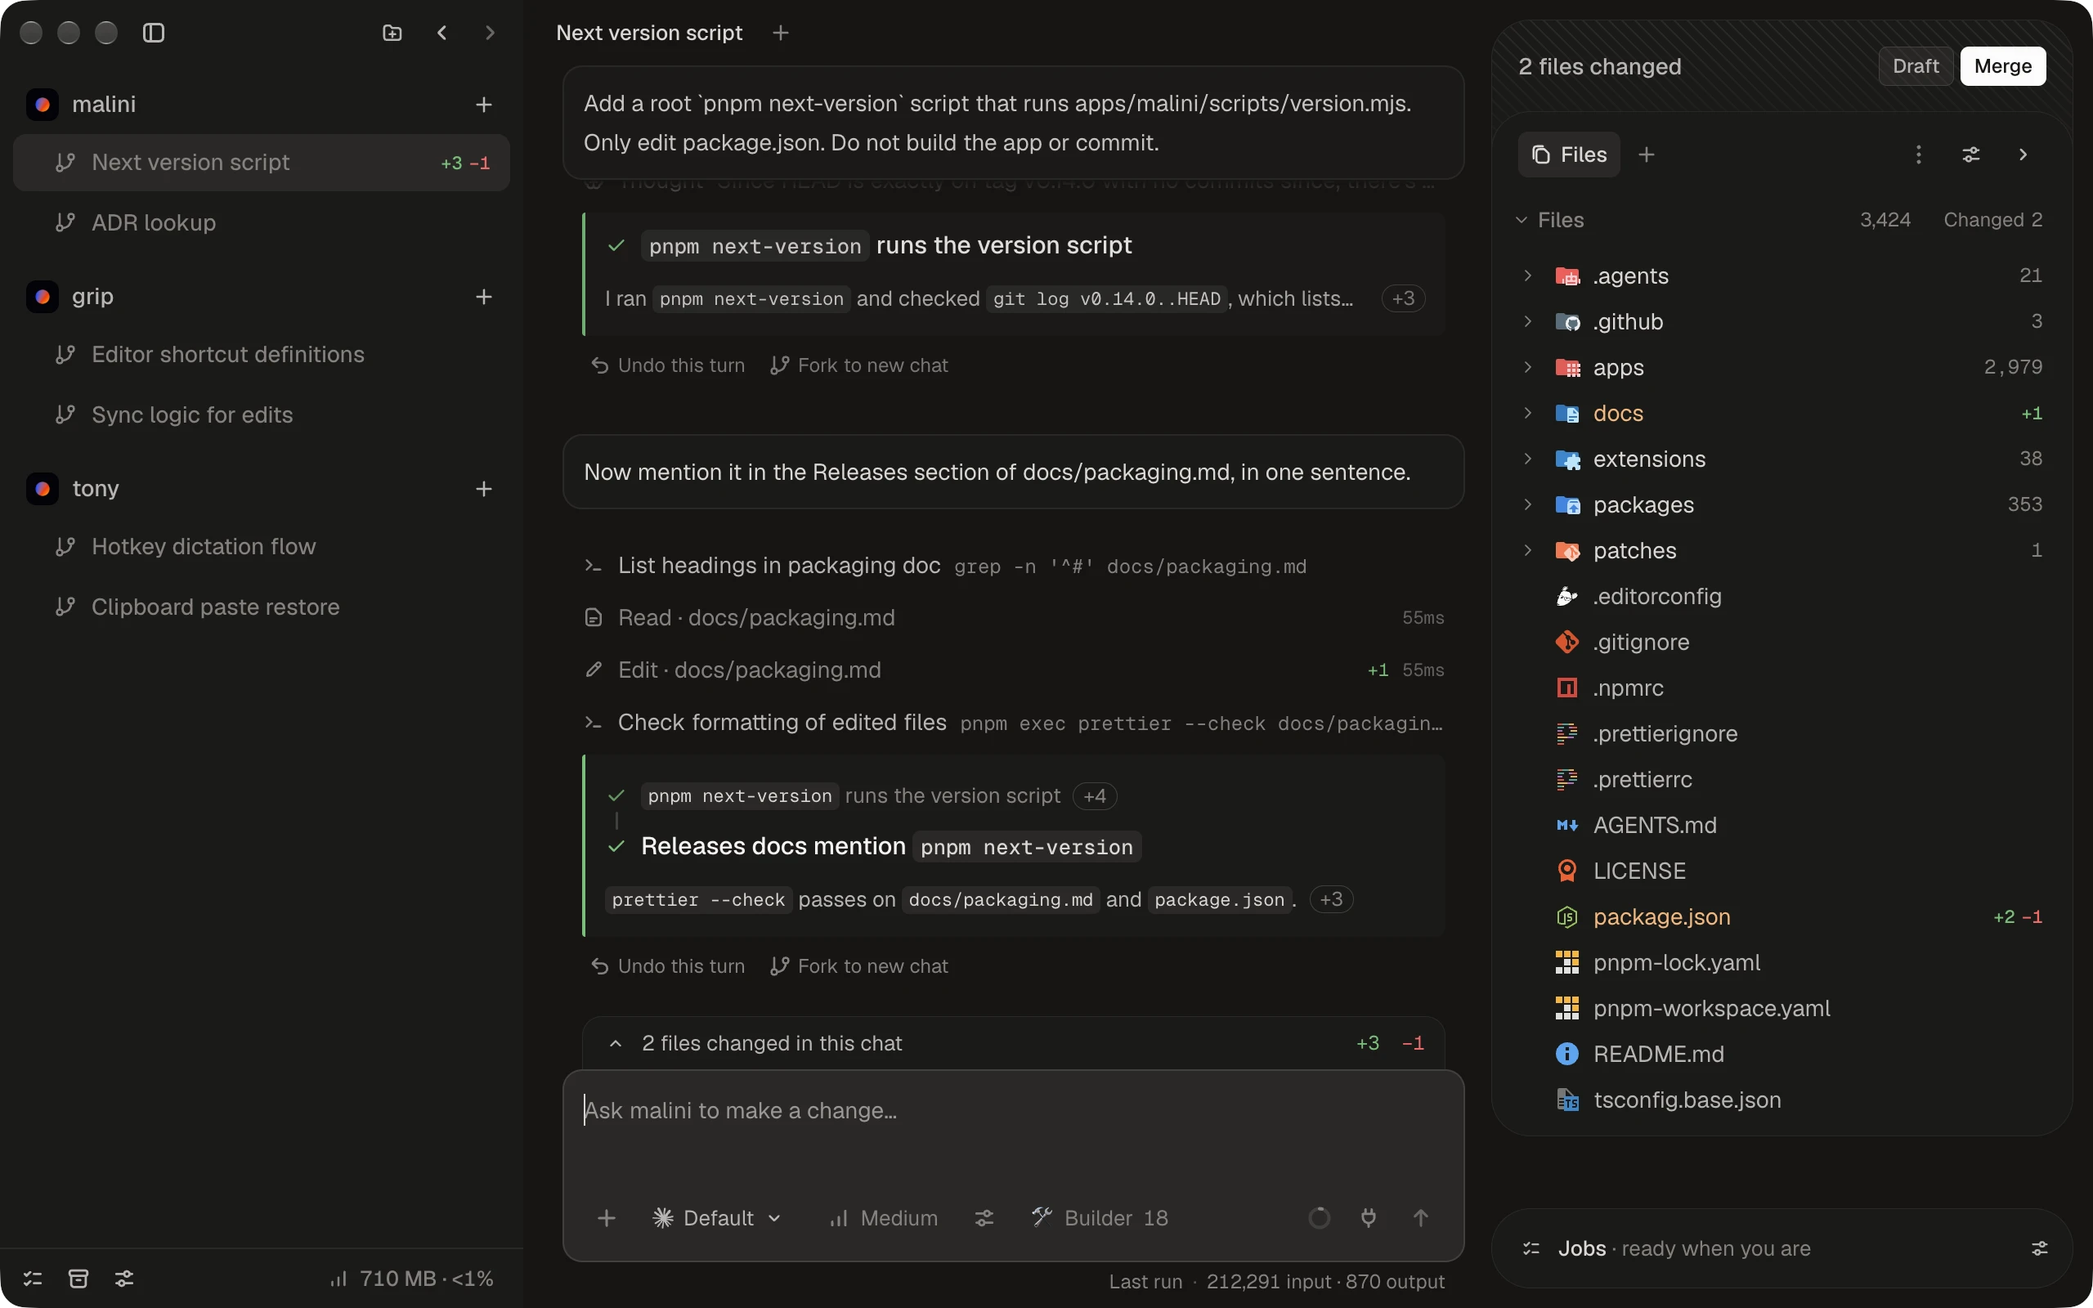
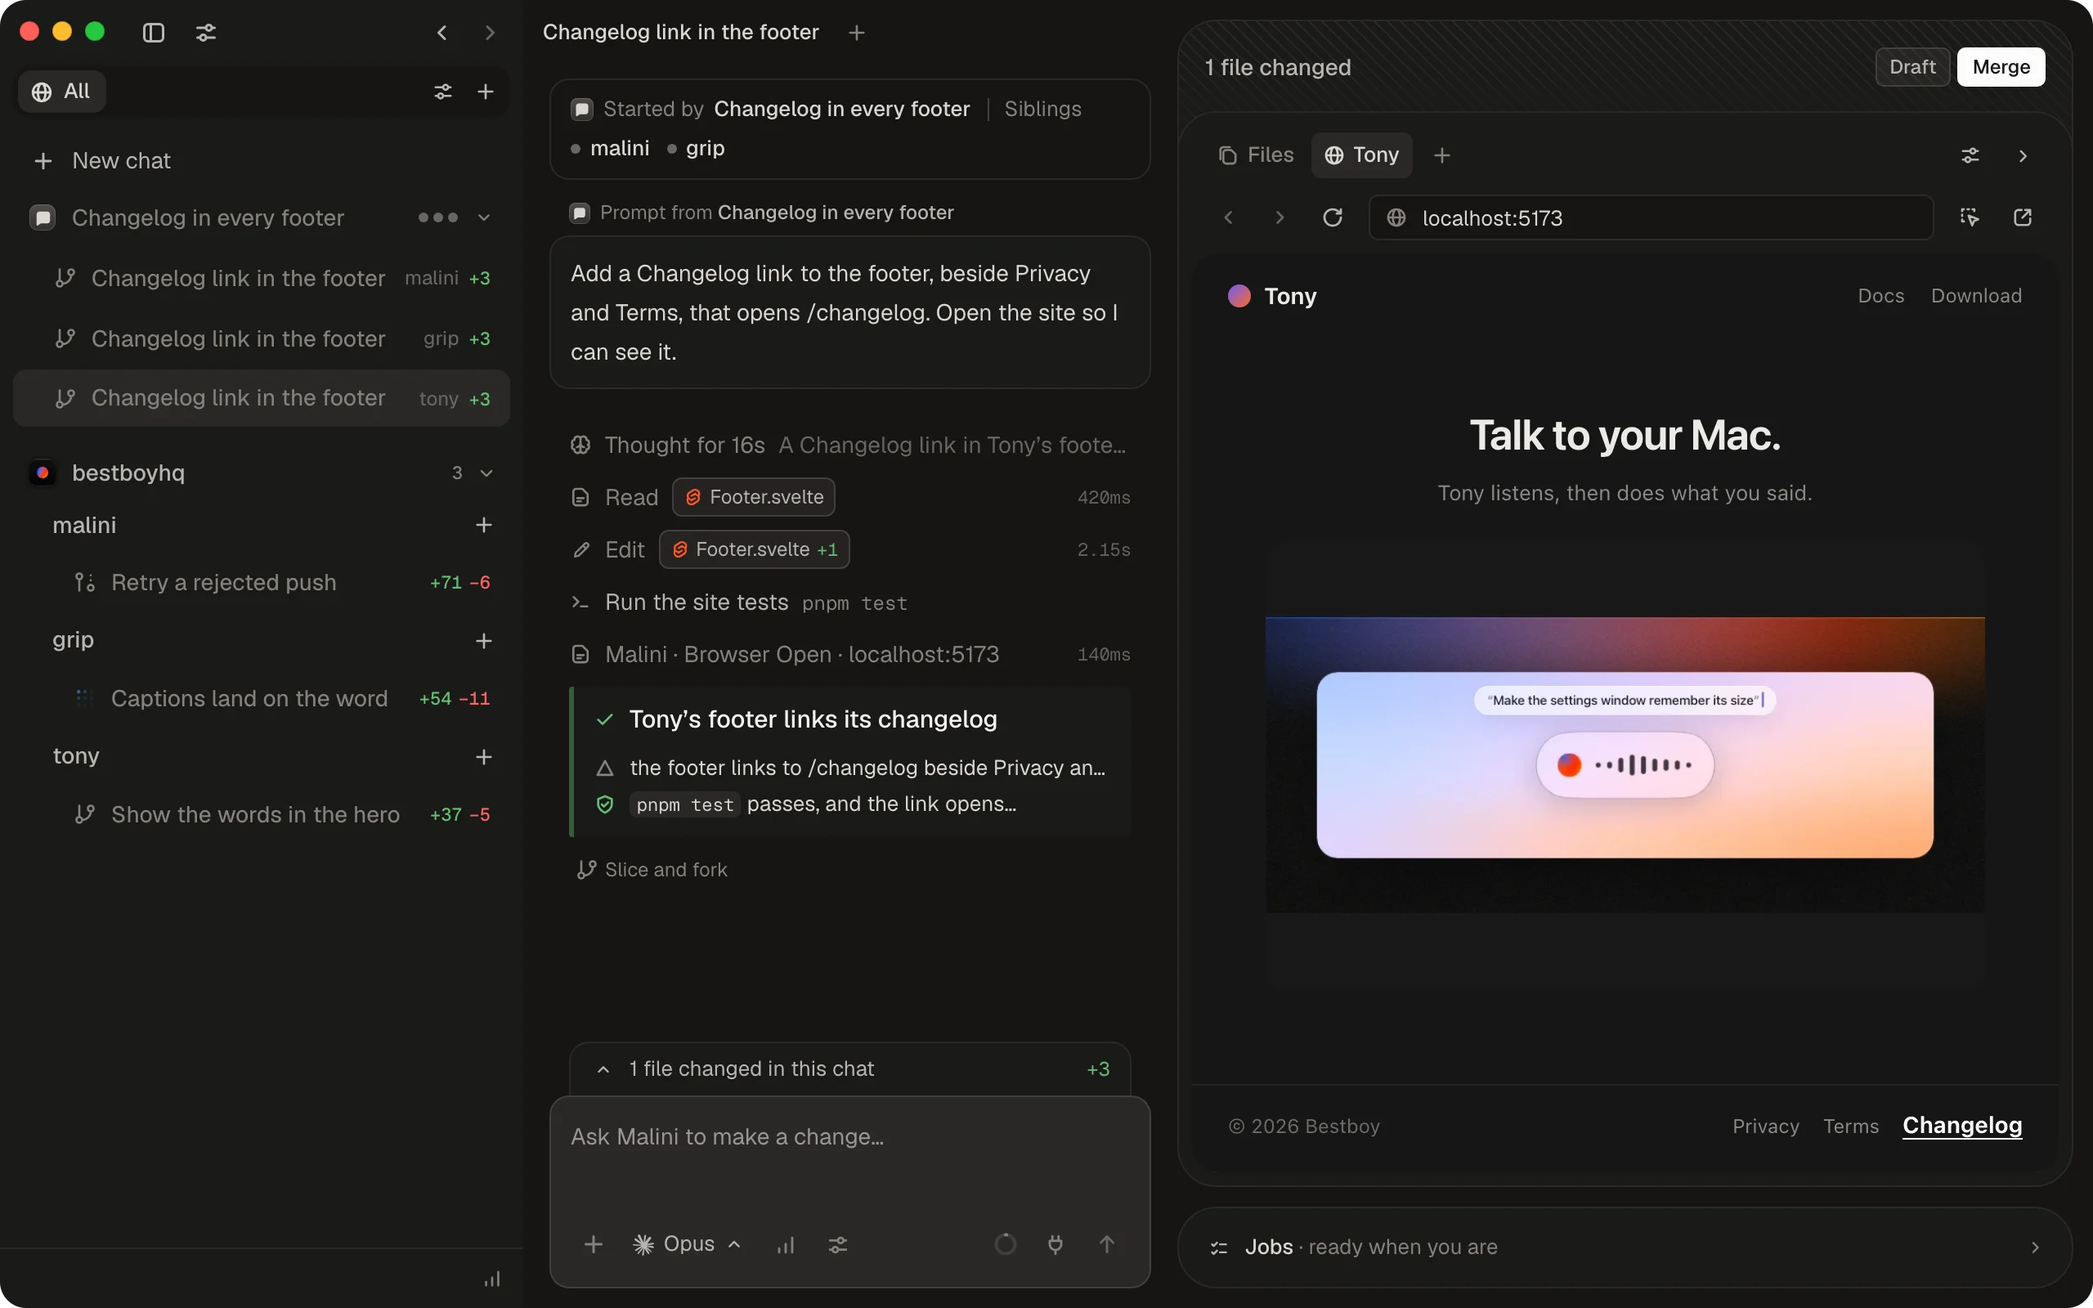
docs: rewrite the README for devs and refresh the hero (#143)
* docs: rewrite the README for devs and fix stale privacy facts

* docs: recapture the hero and re-render the Open Graph image

---------

diff --git a/apps/site/src/routes/(site)/+page.svelte b/apps/site/src/routes/(site)/+page.svelte
@@ -89,8 +89,8 @@
 		},
 		{
 			icon: 'eye',
-			title: 'Four calls of its own',
-			body: 'Update checks, anonymous usage data you can turn off, the extension marketplace while you use it, and your stats only if you publish them. Every big decision is written down.',
+			title: 'Five calls of its own',
+			body: 'Update checks, usage stats you can turn off, model lists from models.dev, the extension marketplace while you use it, and your stats only if you publish them. Every big decision is written down.',
 		},
 	] as const;
 
@@ -113,7 +113,7 @@
 		{
 			question: 'Where does my code go?',
 			answer:
-				'To the agent you run and to GitHub through the GitHub CLI. Today the agent is your own Claude Code, so your code goes to Anthropic. A Bestboy account is optional, only to publish your stats or an extension, and there is no Malini server. Malini makes four calls of its own: update checks to GitHub Releases, anonymous usage data that never includes your code, prompts, paths, or keys, which you can turn off under Settings, Privacy, the extension marketplace at bestboy.dev while Extensions or Profile is open in Settings or something is installed, and, only if you turn on Publish my stats, the numbers on your public profile at bestboy.dev.',
+				'To the agent you run and to GitHub through the GitHub CLI. Today the agent is your own Claude Code, so your code goes to Anthropic, or to the provider you pick. A Bestboy account is optional, only to publish your stats or an extension, and there is no Malini server. Malini makes five calls of its own: update checks to GitHub Releases, usage stats that never include your code, prompts, paths, or keys, which carry your Bestboy account while you are signed in and which you can turn off under Settings, Privacy, the model lists of DeepSeek and OpenCode from models.dev, the extension marketplace at bestboy.dev while Extensions or Profile is open in Settings or something is installed, and, only if you turn on Publish my stats, the numbers on your public profile at bestboy.dev.',
 		},
 		{
 			question: 'Can an agent commit or push on its own?',
@@ -128,7 +128,7 @@
 		{
 			question: 'Which agents and models can I use?',
 			answer:
-				'Claude Code today, and we want to support more agents. Pick Fable, Opus, Sonnet, or Haiku at any effort from Low to Max, per prompt. Your context window and plan usage are one click from the composer.',
+				'Claude Code today, and we want to support more agents. Pick Fable, Opus, Sonnet, or Haiku on your Claude plan, or a DeepSeek or OpenCode model on its own key, at any effort from Low to Max, per prompt. Your context window and plan usage are one click from the composer.',
 		},
 		{
 			question: 'Can I extend it?',

diff --git a/apps/site/src/lib/Head.svelte b/apps/site/src/lib/Head.svelte
@@ -27,7 +27,7 @@
 	<meta property="og:image:height" content="630" />
 	<meta
 		property="og:image:alt"
-		content="Malini's page: Agentic development environment for builders moving fast, over the Malini window with workstreams in its sidebar, a chat, and Draft and Merge above 2 changed files."
+		content="Malini's page: Agentic development environment for builders moving fast, over the Malini window with a Home chat and the workstreams it started in its sidebar, a chat beside a browser tab, and Draft and Merge above 1 changed file."
 	/>
 	<meta name="twitter:card" content="summary_large_image" />
 	<link rel="alternate" type="text/plain" title="llms.txt" href="{SITE_URL}/llms.txt" />

diff --git a/apps/site/src/lib/Hero.svelte b/apps/site/src/lib/Hero.svelte
@@ -41,7 +41,7 @@
 					src={hero}
 					width="2560"
 					height="1600"
-					alt="The Malini window: six workstreams across malini, grip, and tony in the sidebar, a finished chat, and Draft and Merge above 2 changed files"
+					alt="The Malini window: a Home chat with the three workstreams it started nested under it in the sidebar, a finished chat beside a browser tab on the site it changed, and Draft and Merge above 1 changed file"
 				/>
 			{:else}
 				<div
@@ -218,6 +218,7 @@
 
 	.og .intro {
 		padding-top: 56px;
+		padding-bottom: 72px;
 	}
 
 	.og .intro > :global(*),

diff --git a/README.md b/README.md
@@ -6,7 +6,8 @@
 
 <p align="center">
   <b>Agentic development environment for builders moving fast.</b><br>
-  Run as many agents as you want. Malini handles the chores, so you only review pull requests and the gains compound.<br>
+  Run as many Claude Code agents as you want, each in its own worktree.<br>
+  Malini does the git, the pull requests and the red checks. You read reports and press Merge.<br>
   Free and open source macOS app.
 </p>
 
@@ -21,87 +22,101 @@
 </p>
 
 <p align="center">
-  <img src=".github/readme/hero.webp" width="100%" alt="The Malini window: six workstreams across malini, grip and tony in the sidebar, a finished malini chat that read the code, edited package.json and docs/packaging.md, and ended each turn with a Done report, 2 files changed with Draft and Merge in the top bar, and a Builder skills chip in the composer.">
+  <img src=".github/readme/hero.webp" width="100%" alt="The Malini window: a Home chat, Changelog in every footer, with the three workstreams it started in malini, grip and tony nested under it, above more workstreams in the sidebar. The tony one is open: its report says Tony's footer links its changelog, a browser tab beside it shows the site with the new Changelog link, and Draft and Merge sit above 1 changed file.">
 </p>
 
 ---
 
-## Why it exists
+## What it fixes
 
-The best AI coding tools are closed source.
-They belong to companies with investors to answer to, and when the two of you disagree, the investors win.
-Prices change.
-Limits change.
-Features go away.
-You can't look inside, and you can't take your setup with you.
+| You have seen this                                                         | What Malini does                                                                                                           |
+| -------------------------------------------------------------------------- | -------------------------------------------------------------------------------------------------------------------------- |
+| Two agents share one checkout. One of them wins.                           | Every task is a workstream: its own git worktree, branch and chats. Start one or a hundred.                                |
+| An agent commits half-done work and opens a pull request you never wanted. | Agents can't commit, push, rebase, reset or run `gh pr create`. Malini owns git.                                           |
+| A new prompt kills the run in flight.                                      | **↵** queues it after the run. **⌘↵** steers now.                                                                          |
+| A turn ends in a wall of text.                                             | Every turn ends in a report: a picture, one line on what changed, one on how it was checked.                               |
+| "Fixed the layout." Sure.                                                  | A visible change comes with before and after. Every changed area gets a number, including the ones nobody meant to change. |
+| You asked for a design and got one guess.                                  | An open question comes back as two to four variants. You pick, the agent builds the winner.                                |
+| The pull request sits red overnight.                                       | Press **Merge**. Malini fixes checks, merges main in, answers review, and merges exactly the commit that passed.           |
+| One change spans three repositories.                                       | A chat at Home plans it and starts one workstream per repository. It asks you only what only you can decide.               |
+| You type the same prompt every Monday.                                     | Make it a job. Give it a trigger, like a merged pull request, and a Then, like **Open draft**.                             |
+| The agent wants your API key in the chat.                                  | It asks for the key by name. Your keychain keeps it, and every output shows `[secret]`.                                    |
+| One bad turn wrecks the branch.                                            | Every turn has Undo. Or fork the chat and try again.                                                                       |
 
-Malini is the other way.
+<p align="center">
+  <img src=".github/readme/variants.webp" width="70%" alt="A Malini report with three Open Graph image directions, Icon, Product and Type, as tabs under one frame, and a Your turn row asking to pick the direction for malini, grip and tony, with Go with A.">
+</p>
 
-**Open source, so we can't rug pull you.**
-The code is public under AGPL.
-It needs no account and no subscription, and there is no Malini server.
-We can't take it back, and if we ever go wrong, you can fork it.
+<p align="center">
+  <sub>Ask for options and pick one. The rest never touch your code.</sub>
+</p>
 
-**Transparent, all the way down.**
-Your code goes to Anthropic through your own Claude Code, and to GitHub through the GitHub CLI.
-That's it.
-Malini makes four calls of its own: update checks, usage stats you can turn off, which carry your Bestboy account while you are signed in, the extension marketplace while you use it, and your stats to a public profile, only if you publish them.
-Every big decision is written down in [`docs/adr`](docs/adr).
+Everything else Malini does is in [`docs/features.md`](docs/features.md) and the [docs](https://bestboy.dev/malini/docs).
 
-**On your side of the token.**
-An AI lab earns more when you use more tokens.
-It has no reason to help you use fewer.
-Its interest and yours point in opposite directions.
-Malini earns nothing from tokens.
-It shows your context window and your plan usage, and you pick the model and the effort for every prompt.
-Claude Code also loads every skill you own into every chat.
-With 47 skills that is about 7,400 tokens before you type a word.
-Malini ranks them by how often your agents use them, so you can turn off the ones no chat needs.
+## How it works
 
-**Outcomes, not skills.**
-You never wanted skills.
-A skill is a pile of markdown files, and that's an implementation detail.
-What you wanted was the outcome: checks green, branch up to date, review answered.
-So Malini has jobs.
-A job is an outcome you ask for by name, and you can have as many as you like.
-Name the skills a job needs, and it loads only those.
-That leaves your time for the work that matters, instead of fighting your setup.
+1. **Start a task.**
+   Press **+** on a repository, or tell a chat at Home what you want and it starts the workstreams.
+   Each one gets a fresh worktree, its own branch, and dependencies installed from the lockfile.
+2. **Keep it moving.**
+   Queue prompts, plan first, and pick the model and effort for every prompt.
+   Agents write the code and test it in a browser tab beside your files.
+3. **Press Draft, then Merge.**
+   Malini commits, opens the pull request, fixes red checks, answers reviews, and merges once GitHub allows.
+   The workstream archives itself when it lands.
+
+## Jobs
+
+A job is work you reuse by name: instructions, a model, an effort, and only the skills it needs.
+You run it, an event runs it, or a schedule does, like `every weekday at 09:00`.
+A Then runs next, so "update the changelog, then open a draft" is one job.
+Ten come built in, among them **Fix checks**, **Update from main**, **Resolve conflicts** and **Address review**, and they are yours to edit.
+Type the same prompt often enough and Malini offers to make it a job.
 
 <p align="center">
   <img src=".github/readme/jobs.webp" width="100%" alt="The Changelog on merge job open on the Jobs page: When a pull request merges, it runs on its own in the workstream it fires in, and then runs Open draft. Below are its recent run and its instructions.">
 </p>
 
-<p align="center">
-  <img src=".github/readme/job-running.webp" width="50%" alt="The top of a chat's composer: 71 files changed in this chat, and the Update from main job running.">
-</p>
+## Why open source
 
-<p align="center">
-  <sub>A job running inside a chat.</sub>
-</p>
+The best AI coding tools are closed source, and they answer to investors.
+Prices change.
+Limits change.
+Features go away.
+Malini is the other way.
 
-## How it works
+**Open source, so we can't rug pull you.**
+The code is public under AGPL.
+No account, no subscription, no Malini server.
+If we ever go wrong, fork it.
 
-1. **Start a task.**
-   Each task is a workstream: its own git worktree, its own branch, its own chats.
-   Start one or start a hundred.
-2. **Keep it moving.**
-   Queue prompts, run jobs, plan first if you like.
-   Agents write code, and Malini owns git.
-3. **Press Draft, then Merge.**
-   Malini commits, opens the pull request, fixes red checks, addresses reviews, and merges once GitHub allows.
+**Transparent, all the way down.**
+Your code leaves your Mac only through your own Claude Code, to Anthropic or the provider you pick, and through the GitHub CLI, to GitHub.
+Malini makes five calls of its own: update checks, usage stats you can turn off, which carry your Bestboy account while you are signed in, model lists from models.dev, the extension marketplace while you use it, and your stats to a public profile, only if you publish them.
+Every big decision is written down in [`docs/adr`](docs/adr).
 
-Everything Malini can do is in [`docs/features.md`](docs/features.md).
+**On your side of the token.**
+An AI lab earns more when you use more tokens.
+Malini earns nothing from them.
+It shows your context window and your plan usage, and you pick the model and the effort for every prompt.
+Claude Code loads every skill you own into every chat: with 47 skills, that is about 7,400 tokens before you type a word.
+Malini ranks them by how often your agents use them, so you turn off the ones no chat needs.
 
 ## Install
 
 1. [Download Malini](https://github.com/bestboyhq/malini/releases/latest/download/malini-arm64.dmg) and drag it to Applications.
 2. Open it.
-   Setup connects Claude Code and GitHub: **Install** and **Sign in** for Claude Code, and a one-time code in your browser for GitHub.
-3. Add a repository.
-   Your first workstream is ready.
+   Setup installs Claude Code if this Mac lacks it, and signs you in to GitHub with a one-time code in your browser.
+3. Setup ends in a chat at Home.
+   Pick a repository there, or say what you're working on.
 
 You need macOS 13 or later on Apple silicon, and git.
-Malini ships the GitHub CLI, and setup installs Claude Code if you don't have it.
+Malini ships the GitHub CLI.
+Agents run your own Claude Code: Fable, Opus, Sonnet or Haiku on your Claude plan, or a DeepSeek or OpenCode model on its own key.
+Malini updates itself.
+
+The docs are at [bestboy.dev/malini/docs](https://bestboy.dev/malini/docs).
+Every page is plain markdown at its URL plus `.md`, and [llms-full.txt](https://bestboy.dev/malini/llms-full.txt) holds all of them, so your agent can read them too.
 
 ## Build from source
 
@@ -112,9 +127,12 @@ git clone https://github.com/bestboyhq/malini && cd malini
 corepack enable pnpm   # once; the repository pins pnpm 12
 pnpm install
 pnpm dev               # the app, with hot reload
+pnpm check             # types and the command and event contract
+pnpm test:e2e          # builds, then Playwright drives the app
 ```
 
-Read [AGENTS.md](AGENTS.md) for the layout and the conventions.
+Malini is built in Malini.
+Read [AGENTS.md](AGENTS.md) for the layout and the conventions, and [`docs/adr`](docs/adr) for why it is built this way.
 Issues and pull requests are welcome; your first pull request asks you to sign the [CLA](CLA.md).
 Pull request titles follow [Conventional Commits](https://www.conventionalcommits.org), and every merged `feat`, `fix`, or `perf` ships to users as an in-app update.
 

diff --git a/docs/features.md b/docs/features.md
@@ -164,10 +164,11 @@ The [README](../README.md) has the short version.
 
 Malini needs no account, and there is no Malini server.
 Your code leaves your Mac only through your own Claude Code, to Anthropic or the provider you pick, and the GitHub CLI, to GitHub.
-Malini makes five calls of its own: update checks to GitHub Releases, anonymous usage data to Logdash, stored in the EU, the model lists of DeepSeek and OpenCode from models.dev, the extension marketplace at bestboy.dev while Extensions or Profile is open in Settings or something is installed, and, only after you turn on **Publish my stats**, the numbers on your profile at bestboy.dev.
+Malini makes five calls of its own: update checks to GitHub Releases, usage data to Logdash, stored in the EU, the model lists of DeepSeek and OpenCode from models.dev, the extension marketplace at bestboy.dev while Extensions or Profile is open in Settings or something is installed, and, only after you turn on **Publish my stats**, the numbers on your profile at bestboy.dev.
 Usage data counts the days Malini runs and the agent runs it finishes, and names the errors it hits, such as which command failed on which version.
+While you are signed in to Bestboy on its current terms, each count carries your account, as a hash Malini makes on your Mac.
 It never contains your code, prompts, paths, keys, or error messages, and Logdash stores no IP address.
-Turn it off under Settings, Privacy, Share usage data.
+Turn it off under Settings, Privacy, **Share usage stats**.
 
 **Streamer mode** masks email addresses and your user name in paths, such as `s***o` for `szymeo`.
 Only the first letter stays, and the last one for names of five letters or more; the stars never show the length, and an email's domain is hidden whole, so `s***o@***` gives a viewer nothing to work with.
